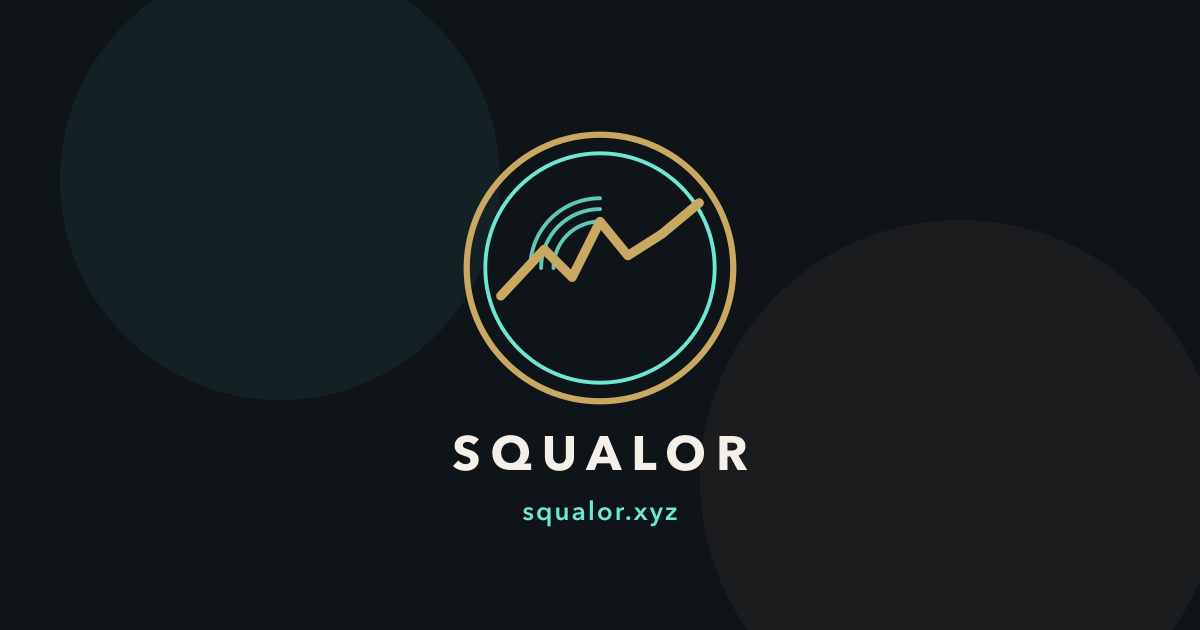
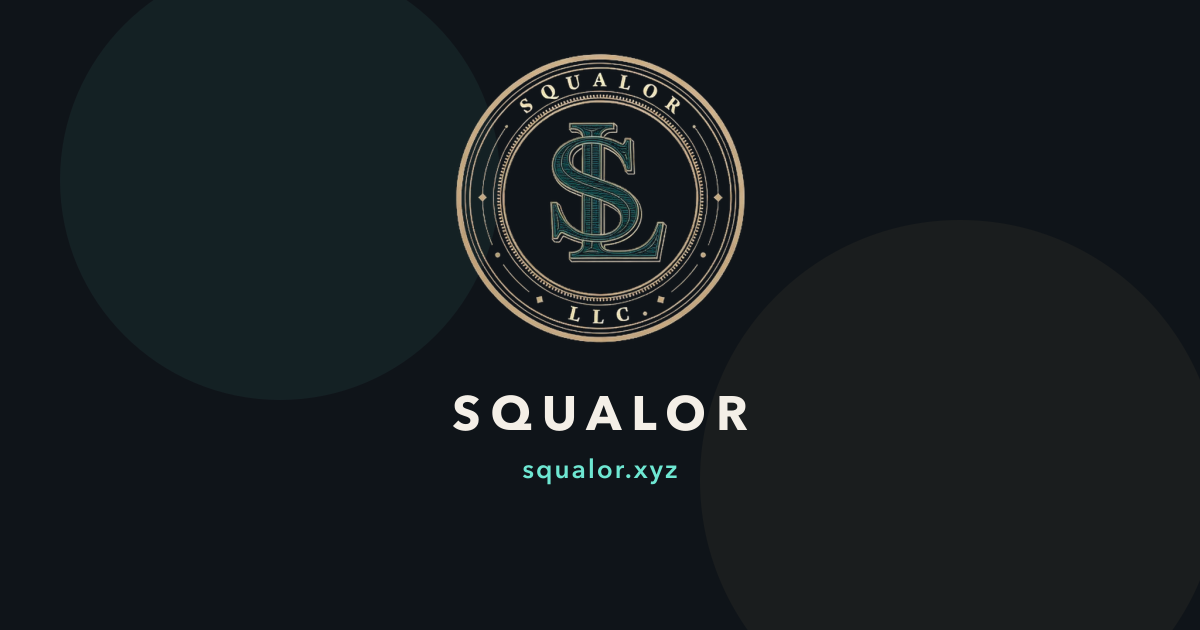
Use the engraved shop seal as the site mark.
Replace the RF vector logo with a crop of the merch seal, keep the simple SL for favicons, and add a home merch strip with the rusted-teal wordmark.

Changed region(s): [[0.37, 0.0603, 0.6475, 0.8444]]

diff --git a/docs/index.html b/docs/index.html
@@ -27,7 +27,7 @@
       <div class="nav-bar">
         <div class="brand-lockup">
           <a class="brand-link" href="index.html">
-            <img class="logo-mark" src="logo.svg" alt="Squalor LLC logo">
+            <img class="logo-mark" src="logo.png" alt="Squalor LLC logo" width="256" height="256">
             <div class="brand-text">
               <p class="brand-name">Squalor LLC</p>
               <p>Software, automation, and technical execution</p>
@@ -161,6 +161,22 @@
             <p>Squalor publishes open-source projects and experiments, and also maintains a smaller local community effort under the DBA <strong>Squalor Farms</strong> for eggs and honey. The main business remains highly technical, but the company is intentionally personal and flexible in how it shows up.</p>
           </div>
           <a class="button-secondary" href="projects.html">See public projects</a>
+        </div>
+      </section>
+
+      <section class="section">
+        <div class="container callout panel merch-callout">
+          <div>
+            <div class="kicker">Merch shop</div>
+            <h2>The seal and rusted type, on garments.</h2>
+            <p>The print shop uses the SL seal and the rusted-teal SQUALOR mark. Same company, different surface.</p>
+            <div class="hero-actions">
+              <a class="button-secondary" href="https://squalor.printful.me">Visit the shop</a>
+            </div>
+          </div>
+          <a class="merch-wordmark" href="https://squalor.printful.me">
+            <img src="assets/wordmark-url-rust-teal.png" alt="SQUALOR rusted teal wordmark, squalor.xyz" width="720" height="420" loading="lazy">
+          </a>
         </div>
       </section>
 

diff --git a/docs/style.css b/docs/style.css
@@ -146,8 +146,8 @@ img {
 }
 
 .logo-mark {
-  width: 60px;
-  height: 60px;
+  width: 72px;
+  height: 72px;
   padding: 0;
   border-radius: 50%;
   background: transparent;
@@ -462,6 +462,17 @@ li {
   align-items: center;
 }
 
+.merch-callout .merch-wordmark {
+  display: block;
+  width: min(100%, 360px);
+  justify-self: end;
+}
+
+.merch-callout .merch-wordmark img {
+  width: 100%;
+  height: auto;
+}
+
 .metrics {
   display: flex;
   flex-wrap: wrap;
@@ -562,6 +573,10 @@ canvas {
 
   .brand-text p:not(.brand-name) {
     display: none;
+  }
+
+  .merch-callout .merch-wordmark {
+    justify-self: start;
   }
 }
 

diff --git a/docs/contact.html b/docs/contact.html
@@ -27,7 +27,7 @@
       <div class="nav-bar">
         <div class="brand-lockup">
           <a class="brand-link" href="index.html">
-            <img class="logo-mark" src="logo.svg" alt="Squalor LLC logo">
+            <img class="logo-mark" src="logo.png" alt="Squalor LLC logo" width="256" height="256">
             <div class="brand-text">
               <p class="brand-name">Squalor LLC</p>
               <p>Software, automation, and technical execution</p>

diff --git a/docs/projects.html b/docs/projects.html
@@ -27,7 +27,7 @@
       <div class="nav-bar">
         <div class="brand-lockup">
           <a class="brand-link" href="index.html">
-            <img class="logo-mark" src="logo.svg" alt="Squalor LLC logo">
+            <img class="logo-mark" src="logo.png" alt="Squalor LLC logo" width="256" height="256">
             <div class="brand-text">
               <p class="brand-name">Squalor LLC</p>
               <p>Software, automation, and technical execution</p>

diff --git a/docs/services.html b/docs/services.html
@@ -27,7 +27,7 @@
       <div class="nav-bar">
         <div class="brand-lockup">
           <a class="brand-link" href="index.html">
-            <img class="logo-mark" src="logo.svg" alt="Squalor LLC logo">
+            <img class="logo-mark" src="logo.png" alt="Squalor LLC logo" width="256" height="256">
             <div class="brand-text">
               <p class="brand-name">Squalor LLC</p>
               <p>Software, automation, and technical execution</p>
